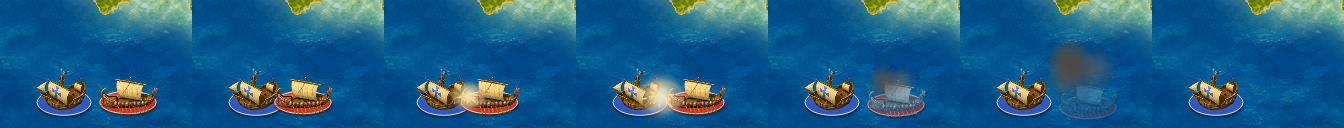
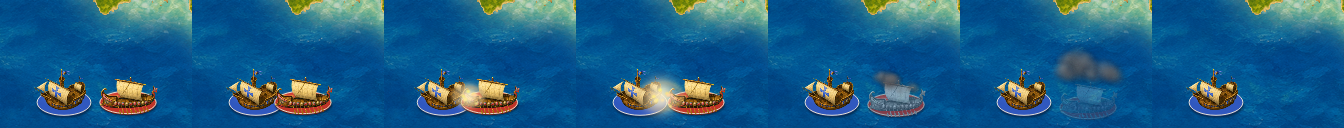
Aesthetic-check skill; painted fortifications and battle effects; scroll and label fixes
- .claude/skills/aesthetic-check and CLAUDE.md: visual changes must pass a
  side-by-side check against the reference renders, in game, before they
  are called done.
- The fortified bank, battle sparks and smoke are laid on as soft dabs of
  paint lit from the top left, instead of flat strokes and blurred blobs.
- A stack's second base peeks out behind the first.
- Town names are written after the units, so a unit in a town never covers
  its name.
- At sea a cell shows the ship carrying the others, as the classic map does,
  instead of the unit on board.
- While the map is redrawn (scrolled), the blended objects are hidden instead
  of standing on the old cells for a frame.

Claude-Session: https://claude.ai/code/session_01GQr8nXbNR6oD4muVyMvrXV

diff --git a/src/Graphics/TopView.cs b/src/Graphics/TopView.cs
@@ -379,15 +379,14 @@ namespace OpenCivOne.Graphics
 					using SKPaint dust = new SKPaint { IsAntialias = true, Style = SKPaintStyle.Stroke, StrokeWidth = c * 0.06f * (1 - k), Color = new SKColor(196, 168, 120, a), MaskFilter = SKMaskFilter.CreateBlur(SKBlurStyle.Normal, c * 0.03f) };
 					canvas.DrawOval(new SKRect(mx - r, my - (r * 0.6f), mx + r, my + (r * 0.6f)), dust);
 
-					// sparks flying out from the clash
-					using SKPaint spark = new SKPaint { IsAntialias = true, StrokeWidth = c * 0.026f, StrokeCap = SKStrokeCap.Round, Color = new SKColor(255, 214, 120, a) };
-
-					for (int i = 0; i < 9; i++)
+					// sparks flying out from the clash: small soft dabs of warm light, not lines
+					for (int i = 0; i < 10; i++)
 					{
 						double angle = rng.NextDouble() * Math.PI * 2;
-						float len = c * (0.15f + (0.25f * (float)rng.NextDouble())), from = len * k, to = from + (c * 0.06f);
+						float len = c * (0.12f + (0.25f * (float)rng.NextDouble())) * (0.4f + (0.6f * k));
 						float ax = (float)Math.Cos(angle), ay = (float)Math.Sin(angle) * 0.7f;
-						canvas.DrawLine(mx + (ax * from), my + (ay * from), mx + (ax * to), my + (ay * to), spark);
+						PaintDab(canvas, mx + (ax * len), my + (ay * len), c * (0.022f + (0.012f * (float)rng.NextDouble())),
+							new SKColor(255, (byte)(206 + rng.Next(40)), (byte)(120 + rng.Next(60)), a), c * 0.012f);
 					}
 				}
 
@@ -405,11 +404,19 @@ namespace OpenCivOne.Graphics
 							continue;
 
 						float ox = ((float)rng.NextDouble() - 0.5f) * c * 0.5f, rise = c * (0.15f + (0.55f * kk)) * (0.7f + (0.6f * (float)rng.NextDouble()));
-						float r = c * (0.1f + (0.18f * kk));
-						byte shade = (byte)(70 + rng.Next(50));
-						byte a = (byte)(170 * MathF.Sin(kk * MathF.PI));
-						using SKPaint puff = new SKPaint { IsAntialias = true, Color = new SKColor(shade, (byte)(shade - 6), (byte)(shade - 14), a), MaskFilter = SKMaskFilter.CreateBlur(SKBlurStyle.Normal, r * 0.45f) };
-						canvas.DrawCircle(lx + ox + (ox * kk), ly - rise, r, puff);
+						float r = c * (0.08f + (0.15f * kk));
+						float alpha = 0.8f * MathF.Sin(kk * MathF.PI);
+						float px = lx + ox + (ox * kk), py = ly - rise;
+						// a billow of grey smoke built of several small, uneven dabs, as gouache is laid on: dark underneath,
+						// a mid grey body, pale where the light catches the top left
+						for (int dab = 0; dab < 5; dab++)
+						{
+							float dx2 = ((float)rng.NextDouble() - 0.5f) * r * 1.1f, dy2 = ((float)rng.NextDouble() - 0.5f) * r * 0.8f;
+							float rr = r * (0.45f + (0.3f * (float)rng.NextDouble()));
+							PaintDab(canvas, px + dx2 + (rr * 0.18f), py + dy2 + (rr * 0.25f), rr, new SKColor(66, 64, 66, (byte)(110 * alpha)), rr * 0.6f);
+							PaintDab(canvas, px + dx2, py + dy2, rr * 0.8f, new SKColor(122, 120, 120, (byte)(120 * alpha)), rr * 0.55f);
+							PaintDab(canvas, px + dx2 - (rr * 0.25f), py + dy2 - (rr * 0.3f), rr * 0.42f, new SKColor(206, 202, 192, (byte)(110 * alpha)), rr * 0.45f);
+						}
 					}
 				}
 			}
@@ -418,6 +425,21 @@ namespace OpenCivOne.Graphics
 		}
 
 		private static float Ease(float x) => x * x * (3 - (2 * x));
+
+		/// <summary>
+		/// A dab of paint: a soft-edged blob, a little irregular, as a brush leaves it
+		/// </summary>
+		private static void PaintDab(SKCanvas canvas, float x, float y, float r, SKColor colour, float soft)
+		{
+			using SKPaint paint = new SKPaint { IsAntialias = true, Color = colour, MaskFilter = SKMaskFilter.CreateBlur(SKBlurStyle.Normal, Math.Max(0.3f, soft)) };
+			canvas.DrawOval(new SKRect(x - r, y - (r * 0.82f), x + r, y + (r * 0.82f)), paint);
+		}
+
+		private static SKColor Mix(SKColor a, SKColor b, float t)
+		{
+			t = Math.Clamp(t, 0, 1);
+			return new SKColor((byte)(a.Red + ((b.Red - a.Red) * t)), (byte)(a.Green + ((b.Green - a.Green) * t)), (byte)(a.Blue + ((b.Blue - a.Blue) * t)), (byte)(a.Alpha + ((b.Alpha - a.Alpha) * t)));
+		}
 
 		public void EndBattle()
 		{
@@ -504,6 +526,8 @@ namespace OpenCivOne.Graphics
 				}
 			}
 
+			var labels = new List<(string Name, float X, float Y)>();
+
 			// towns, top to bottom: the town, its size badge on its top-left corner, its name under it
 			foreach (var town in scene.Cities.OrderBy(t => t.Y).ThenBy(t => Near(t.X, cx)))
 			{
@@ -546,13 +570,8 @@ namespace OpenCivOne.Graphics
 				fill.Color = Lightness(town.Colour) > 0.72f ? Ink : SKColors.White;
 				DrawCentred(canvas, size, bx + ((s + u) / 2), by + ((s + u) / 2), badgeFont, fill, true);
 
-				float ny = MathF.Min(y0 + c, ty + th + (2 * u));
-				float nx = x0 + (c / 2f);
-				fill.Color = Ink;
-				DrawCentred(canvas, town.Name, nx + (2 * u), ny + (2 * u), nameFont, fill, false);
-				DrawCentred(canvas, town.Name, nx + u, ny + u, nameFont, fill, false);
-				fill.Color = NameColour;
-				DrawCentred(canvas, town.Name, nx, ny, nameFont, fill, false);
+				// the name is written after the units, so a unit in or below the town never covers it
+				labels.Add((town.Name, x0 + (c / 2f), MathF.Min(y0 + c, ty + th + (2 * u))));
 			}
 
 			// units, back to front, each on its base; the unit waiting for orders also in a city, ringed while its marker
@@ -613,6 +632,16 @@ namespace OpenCivOne.Graphics
 					canvas.Restore();
 			}
 
+			foreach ((string name, float nx, float ny) in labels)
+			{
+				float u = c / 64f;
+				fill.Color = Ink;
+				DrawCentred(canvas, name, nx + (2 * u), ny + (2 * u), nameFont, fill, false);
+				DrawCentred(canvas, name, nx + u, ny + u, nameFont, fill, false);
+				fill.Color = NameColour;
+				DrawCentred(canvas, name, nx, ny, nameFont, fill, false);
+			}
+
 			effects?.Invoke(canvas, left, top);
 			canvas.Flush();
 			uint[] result = new uint[w * h];
@@ -632,18 +661,45 @@ namespace OpenCivOne.Graphics
 
 			// more units on the cell: a second base behind this one
 			if ((marks & 4) != 0)
-				this.DrawBase(canvas, cx + (3 * u), cy - (3 * u), rx, ry, side, col, false, fill, stroke);
+				this.DrawBase(canvas, cx + (rx * 0.32f) + (2 * u), cy - (ry * 0.55f) - (2 * u), rx, ry, side, col, false, fill, stroke);
 
-			// fortified: a low ring of earth and stakes round the base
+			// fortified: a low bank of earth round the base, painted in dabs of earth and grass with a stake or two,
+			// lit from the top left like the rest of the painting
 			if ((marks & 2) != 0)
 			{
-				SKRect bank = new SKRect(cx - rx - (4 * u), cy - ry - (2 * u), cx + rx + (4 * u), cy + ry + side + (4 * u));
-				stroke.StrokeWidth = 3.2f * u;
-				stroke.Color = new SKColor(92, 70, 44);
-				canvas.DrawOval(bank, stroke);
-				stroke.StrokeWidth = 1.2f * u;
-				stroke.Color = new SKColor(150, 122, 82);
-				canvas.DrawOval(new SKRect(bank.Left, bank.Top - u, bank.Right, bank.Bottom - u), stroke);
+				Random dabs = new Random(7);
+				float bx = rx + (4 * u), by = ry + (3 * u);
+
+				for (int pass = 0; pass < 2; pass++)
+				{
+					for (int i = 0; i < 34; i++)
+					{
+						float a = i / 34f * MathF.PI * 2;
+						float px = cx + (MathF.Cos(a) * bx), py = cy + (side / 2) + (MathF.Sin(a) * by);
+						float lit = 0.5f - (0.5f * MathF.Sin(a + 0.8f));
+						SKColor earth = Mix(new SKColor(96, 72, 42), new SKColor(176, 146, 96), lit * 0.8f + (0.2f * (float)dabs.NextDouble()));
+
+						if (pass == 0)
+							PaintDab(canvas, px + (0.8f * u), py + (1.2f * u), 2.6f * u, new SKColor(30, 22, 12, 90), 1.2f * u);
+						else
+						{
+							PaintDab(canvas, px, py, (1.9f + (0.7f * (float)dabs.NextDouble())) * u, earth, 0.5f * u);
+
+							if (dabs.NextDouble() < 0.25)
+								PaintDab(canvas, px, py - (0.9f * u), 0.9f * u, Mix(new SKColor(96, 120, 52), new SKColor(150, 160, 80), lit), 0.4f * u);
+						}
+					}
+				}
+
+				// a few sharpened stakes along the front of the bank
+				using SKPaint stake = new SKPaint { IsAntialias = true, StrokeWidth = 1.1f * u, StrokeCap = SKStrokeCap.Round, Color = new SKColor(78, 54, 30, 230) };
+
+				for (int i = -2; i <= 2; i++)
+				{
+					float a = (MathF.PI / 2) + (i * 0.38f);
+					float sx = cx + (MathF.Cos(a) * bx), sy = cy + (side / 2) + (MathF.Sin(a) * by);
+					canvas.DrawLine(sx, sy, sx + (i * 0.4f * u), sy - (3.2f * u), stake);
+				}
 			}
 
 			this.DrawBase(canvas, cx, cy, rx, ry, side, col, ring, fill, stroke);

diff --git a/src/Game/CodeObjects/MapManagement.cs b/src/Game/CodeObjects/MapManagement.cs
@@ -146,11 +146,17 @@ namespace OpenCivOne
 			{
 				GBitmap mapScreen = this.parent.Graphics.Screens.GetValueByKey(this.parent.Var_aa_Screen0_Rectangle.ScreenID);
 
-				if (mapScreen.Over is GBitmap.Overlay current)
+				if (this.parent.MapView.Blends)
+				{
+					// the painted objects are drawn over the classic ground: while the ground is redrawn (scrolled), the
+					// old objects would stand on the wrong cells, so they are not shown until the new view is ready
+					mapScreen.Over = null;
+				}
+				else if (mapScreen.Over is GBitmap.Overlay current)
 				{
 					current.Hold = true;
 				}
-				else if (!this.parent.MapView.Blends)
+				else
 				{
 					// the first time, the window stays dark until the isometric view is ready, instead of showing the
 					// classic map being drawn
@@ -1641,6 +1647,7 @@ namespace OpenCivOne
 						continue;
 
 					int owner = F0_2aea_14e0_GetCellActiveUnitPlayerID(x, y);
+					unitID = this.ShownUnitID(owner, unitID);
 					Unit unit = this.parent.GameData.Players[owner].Units[unitID];
 
 					if (debug || owner == this.parent.GameData.HumanPlayerID || (unit.VisibleByPlayer & mask) != 0)
@@ -1670,6 +1677,38 @@ namespace OpenCivOne
 			}
 
 			return scene;
+		}
+
+		/// <summary>
+		/// The unit a cell shows, as the classic map picks it (F0_2aea_125b_DrawWaterUnit): at sea the ship carrying the
+		/// others, elsewhere the stack's best defender
+		/// </summary>
+		private int ShownUnitID(int playerID, int unitID)
+		{
+			Unit unit = this.parent.GameData.Players[playerID].Units[unitID];
+
+			if (unit.NextUnitID != -1 && GetTerrainType(unit.Position.X, unit.Position.Y) == TerrainTypeEnum.Water &&
+				this.parent.GameData.Units[(int)unit.UnitType].MovementType != UnitMovementTypeEnum.Water)
+			{
+				int current = unitID;
+
+				for (int guard = 0; guard < 128; guard++)
+				{
+					current = this.parent.GameData.Players[playerID].Units[current].NextUnitID;
+
+					if (current < 0 || current == unitID)
+						break;
+
+					if (this.parent.GameData.Units[(int)this.parent.GameData.Players[playerID].Units[current].UnitType].MovementType == UnitMovementTypeEnum.Water)
+						return current;
+				}
+
+				return unitID;
+			}
+
+			int best = this.parent.UnitManagement.F0_1866_1122_GetBestDefenseUnitInStack(playerID, unitID);
+
+			return best >= 0 && best < 128 ? best : unitID;
 		}
 
 		/// <summary>

diff --git a/tests/HDLayerTests/Program.cs b/tests/HDLayerTests/Program.cs
@@ -1452,6 +1452,8 @@ GBitmap other4()
 		topScene.Terrain = (x, y) => 2;
 		topScene.Feature = (x, y) => (x, y) == (4, 3) ? 2 : (x, y) == (10, 7) ? 1 : 0;
 		topScene.Active = (7, 6, 0, Blue);
+		// a fortified phalanx, a legion with an order in progress, a stack
+		topScene.UnitMarks = (x, y) => (x, y) == (3, 5) ? 2 : (x, y) == (14, 4) ? ('R' << 8) : (x, y) == (14, 6) ? 4 : 0;
 		top!.Render(ground.Width / 128f, ground.Height / 128f, topScene);
 		uint[] over = top.Pixels;
 		for (int y = 0; y < ground.Height; y++)

diff --git a/.claude/skills/aesthetic-check/SKILL.md b/.claude/skills/aesthetic-check/SKILL.md
@@ -1,0 +1,47 @@
+---
+name: aesthetic-check
+description: Visual quality gate for any change that affects how the game or a theme looks (art, sprites, map drawing, effects, UI). Run it before saying a visual change is done, finished, fixed or ready, and before committing one. Compares the result with the theme's reference renders, element by element, at game size and enlarged, and records a verdict for each.
+---
+
+# Aesthetic check
+
+A visual change is not done until it passes this check. "It is visible", "it builds" and "it matches the code's intent" are not passes. The question is: **would the art owner accept this next to the reference renders?**
+
+Drawing things in code is fine. What matters is that whatever is drawn, painted or generated sits in the same visual language as the art around it.
+
+## 1. Gather the evidence
+
+For every element the change touches, and every element next to it on screen:
+
+1. **Reference:** the theme's reference renders (for gouache: `themes/gouache/preview/compose.py` output, `*-map.jpg`, `*-zoom.jpg`, or a fresh `compose.py` run). If none show the element, use the nearest element the art does show (e.g. the large walled towns for small walled ones).
+2. **In the real game:** a screenshot from the running game, not only the test harness. Get the state there with a save edit if play won't reach it quickly. Note the exceptions you hit, e.g. units added by editing the save stay invisible until they move.
+3. **Crops:** each element at **1x** (what a player sees) and at **3x** (nearest or Lanczos), set **side by side with the reference** in one image, then look at that image.
+4. **Every case:** sizes, states and colours, e.g. every town step walled and open, every player colour, sentry/fortified/active, land and sea, start, middle and end of an animation.
+
+## 2. Judge each element against these questions
+
+Write the answer for each; a single "no" fails the element.
+
+- **Same medium?** Does it look painted (soft edges, varied colour, light and shade, texture) where the art is painted? Flat fills, uniform strokes, perfect geometry, pure white or pure black lines and vector-clean shapes next to gouache are a **fail**. A drawn ring, outline or icon that does not look painted fails even if it reads well.
+- **Same palette and value?** Do its colours and darkness come from the art around it (sample them), not from picked colours? Nothing should be the brightest or most saturated thing on screen unless it is meant to draw the eye (the active unit, a badge).
+- **Same scale and weight?** Is it in proportion to its neighbours (a man smaller than a knight, a town filling its cell by size)? Are line weights similar to the painting's at game size?
+- **Same light?** Shadows fall the same way (down and to the right here), with the same softness.
+- **Reads at 1x?** Can a player tell what it is and whose it is at game size? Too faint is a fail as well as too loud.
+- **Clean at 3x?** No halos, fringes, seams, key-colour leaks (magenta, cyan), clipped edges, jaggies or blurred mush.
+- **Fits the reference?** Put it next to the reference: does anything jump out as from another game? If yes, fail.
+
+## 3. On a fail
+
+- First look for a cause **in the pipeline** before adding anything. Often the art already has what is missing and a processing step loses it. For example, the town edge softening erased the painted walls of small walled towns. Restoring the art beats drawing over it.
+- If something must be drawn, draw it in the art's language: sample colours from the art, soft and varied edges, texture or noise, painted-style shading. Then run the check again.
+- Never trade style for legibility without saying so. If that trade-off cannot be avoided, ask the owner.
+
+## 4. Report
+
+Before saying done, include in the reply:
+
+- the side-by-side image(s) you judged, sent to the user;
+- a short line per element: **pass**, or **fail** with what is wrong;
+- anything not checked in the real game, said plainly.
+
+Do not say "done", "fixed", "looks good" or "matches" for anything that has not passed this check.

diff --git a/themes/gouache/preview/topview/README.md b/themes/gouache/preview/topview/README.md
@@ -37,6 +37,8 @@ The gouache set has nine units and no huts or resources of its own. The other 19
 | `17_ingame_sizes_2_to_8.jpg` | In game, every step of the ladder between hamlet and city: Rome at 2, 3 (walled) and 7; Babylon at 4, 5 (walled) and 8 (walled). |
 | `18_ingame_small_walled_towns.png` | Small walled towns in game (sizes 3 and 5): their own painted walls. |
 | `22_walled_towns_sizes_3_to_14.png` | Walled towns from size 3 to 14 (harness): the painted walls at every step. |
+| `23_reference_vs_game_check.png` | The aesthetic check: `compose.py` reference crops above, the game below (towns, units on bases, a fortified unit, a town name). |
+| `24_painted_effects_check.png` | The drawn effects after repainting them as dabs: the fortified earth bank, a stack's second base, and battle smoke on land and sea. |
 | `19_ingame_babylon_captured.jpg`, `20_ingame_captured_city_screen.jpg` | A Roman legion captures Babylon at size 3: the town keeps its picture and clearing and changes to a white Roman badge at size 2; its city screen shows the nearby Babylonian units in green. |
 | `21_sea_battle_frames_harness.png` | A battle at sea: a red trireme attacks a blue sailing ship and loses, greying and fading under smoke on the water. |
 
@@ -54,6 +56,8 @@ The gouache set has nine units and no huts or resources of its own. The other 19
 
 ## Review, element by element
 
+Visual changes go through the `aesthetic-check` skill (`.claude/skills/aesthetic-check/SKILL.md`): side-by-side crops against the reference renders, at game size and enlarged, in the real game.
+
 Each element on the map, judged against `compose.py`'s renders and checked in the running game unless noted:
 
 | Element | Verdict |
@@ -65,9 +69,11 @@ Each element on the map, judged against `compose.py`'s renders and checked in th
 | The nine gouache units | Same scale, anchors and bases as the renders, in all eight player colours. |
 | The other 19 units | Default painted set, toned and sized by kind; they sit on bases like the gouache units (`02`). Their painting is a little crisper than gouache, the one remaining style difference, until gouache versions are painted. |
 | Huts, resources, grassland shield | Painted objects, toned; the shield is small and quiet. |
-| Unit states (active, sentry, fortified, stack, orders) | Painted forms; checked in game for active, fortified and stacks. |
+| Unit states (active, sentry, fortified, stack, orders) | Painted forms: the fortified bank and battle sparks and smoke are laid on as soft dabs of paint with light from the top left, not flat strokes (`24`); a stack's second base peeks out behind. Checked in game for active and fortified. |
+| Scrolling | While the ground is redrawn, the painted objects are hidden for a moment instead of standing on the old cells. |
+| Town names | Written after the units, so a unit in a town never covers its name. |
 | Moving units | Slide smoothly between cells. |
-| Battles, land and sea | Painted lunge, dust, smoke and fade (`09` in game; `10`, `21` frame by frame). |
+| Battles, land and sea | Painted lunge, dust, smoke and fade (`09` in game; `10`, `21` frame by frame). A sea battle has not been caught in game: ships placed by editing a save stay hidden until they move, and the AI ships did not attack in the turns recorded. |
 | City capture | Town, clearing and badge change hands cleanly (`19`). |
 | City screen's small map | Painted town and foreign units under the worked-tile icons; no badge there (`15`, `20`). |
 | Dialogs and menus | Drawn over the map as before; the painted map comes back clean after each. |

diff --git a/CLAUDE.md b/CLAUDE.md
@@ -1,0 +1,5 @@
+# Working on OpenCivOne
+
+## Visual changes
+
+Any change that affects how the game or a theme looks must pass the `aesthetic-check` skill (`.claude/skills/aesthetic-check/SKILL.md`) before it is called done, fixed or ready, and before it is committed. That means side-by-side crops against the theme's reference renders, at game size and enlarged, checked in the real game, with a verdict per element in the reply. Drawing things in code is fine; they must look like they belong in the art.
